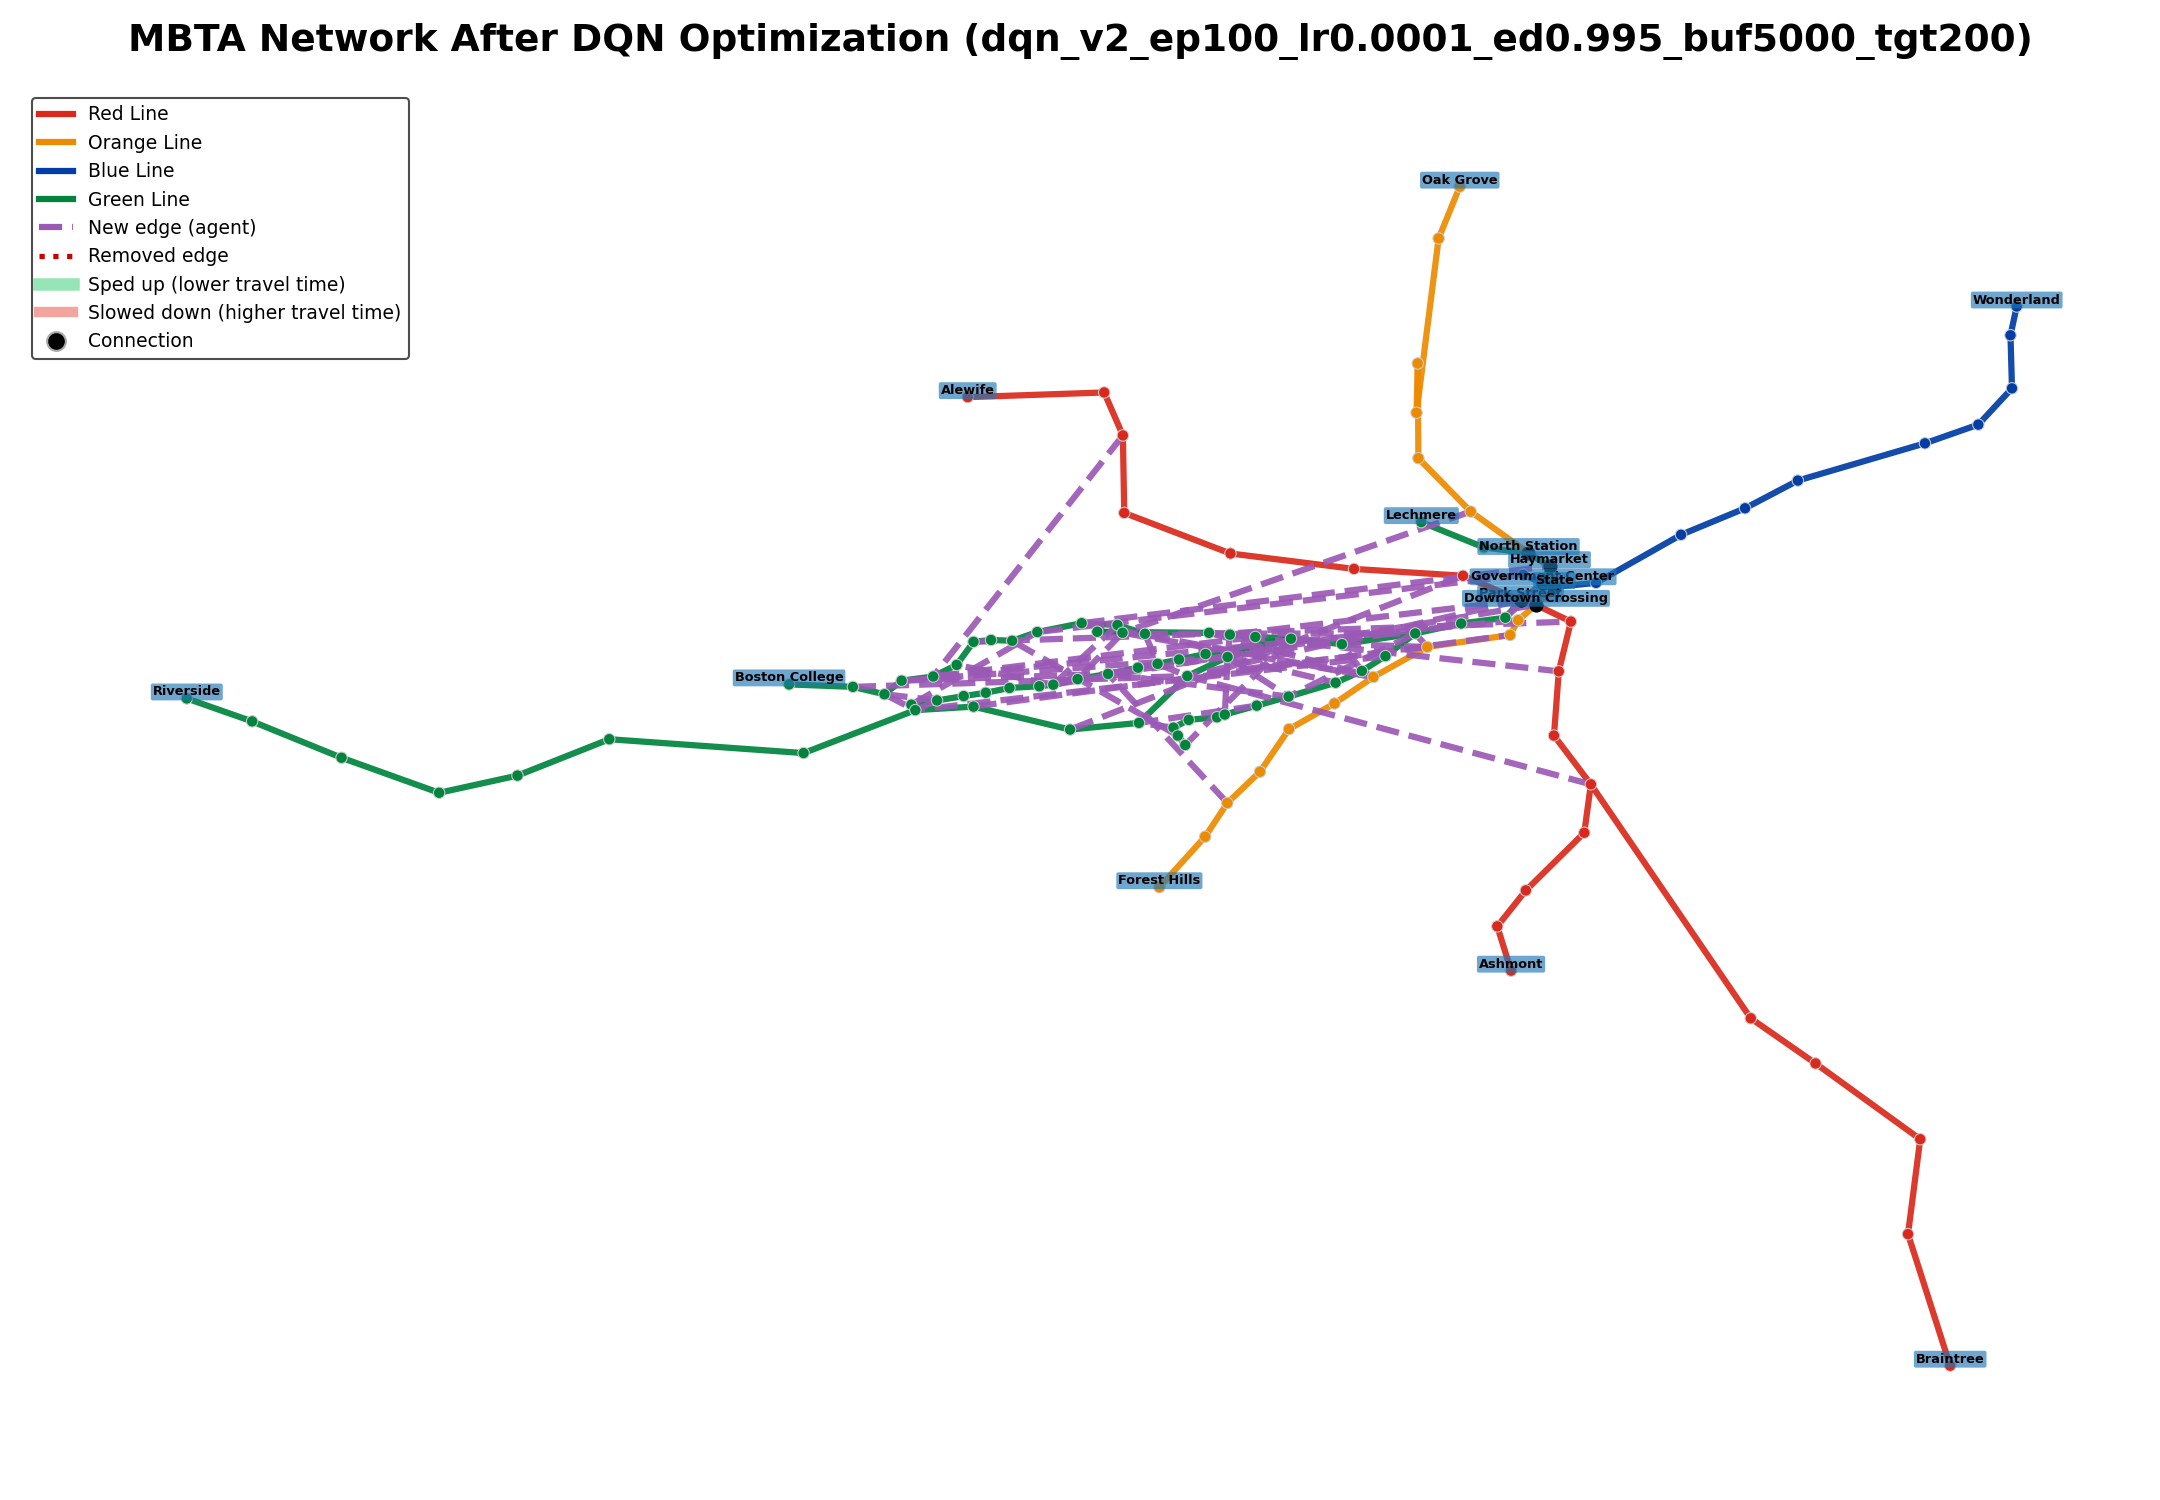
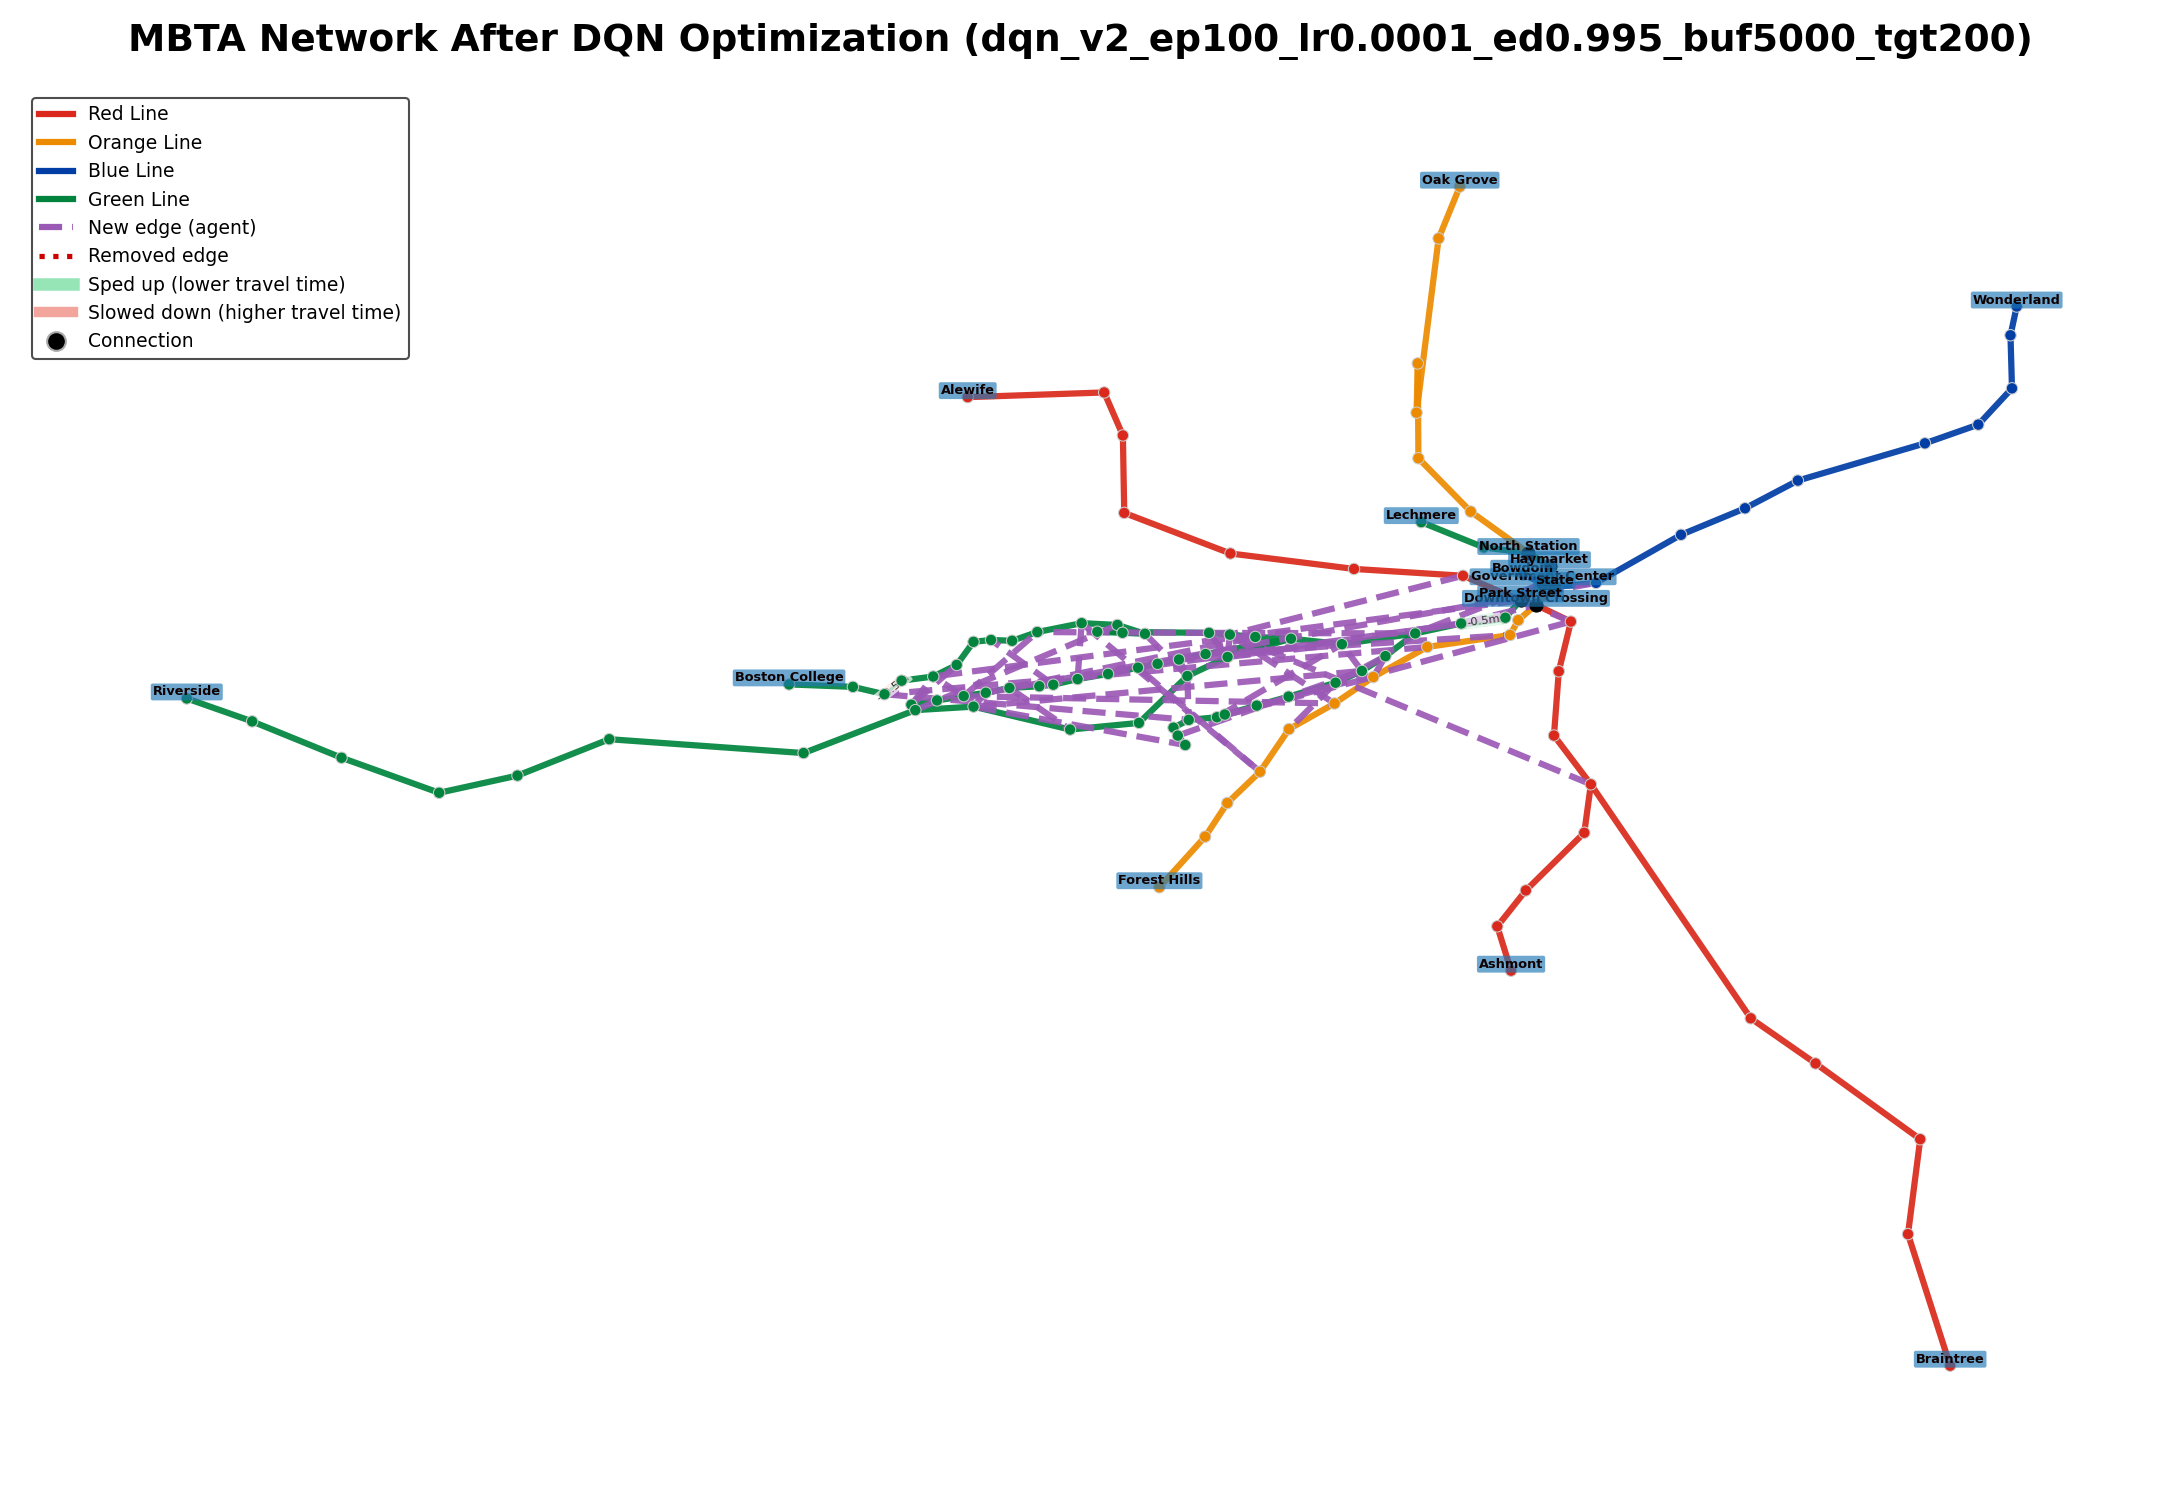
updated to using gymnasium render mode + trained dqn for 100 and 200 episodes

Changed region(s): [[0.4032, 0.368, 0.7444, 0.5213]]

diff --git a/env/mbta_env.py b/env/mbta_env.py
@@ -66,18 +66,19 @@ class MBTAEnv(gym.Env):
         base_graph: nx.Graph,
         max_steps: int = MAX_STEPS,
         disconnect_penalty: float = DISCONNECT_PENALTY,
-        render: bool = False,
+        render_mode: str | None = None,
         budget: float = 500.0,
     ):
         super().__init__()
 
+        self.render_mode = render_mode
         self._base_graph = base_graph
         self.nodes: list[str] = sorted(self._base_graph.nodes())
         self.N: int = len(self.nodes)
 
         self.max_steps = max_steps
         self.disconnect_penalty = disconnect_penalty
-        self._render_enabled = render
+        self._render_enabled = render_mode == "human"
 
         self._G = None
         self._prev_mean_tt = None
@@ -155,10 +156,10 @@ class MBTAEnv(gym.Env):
         """ only allow removing edges that exist and aren't bridges (whose removal would disconnect the graph)"""
         if not self._G.has_edge(u, v):
             return False
-        # use precomputed bridges from action_masks() if available, otherwise compute
         bridges = getattr(self, "_bridges", None)
-        if bridges is None:
+        if bridges is None or self._graph_changed:
             bridges = set(map(frozenset, nx.bridges(self._G)))
+            self._bridges = bridges
         return frozenset((u, v)) not in bridges
 
     def _is_valid_action(self, action_type: int, u: str, v: str) -> bool:
@@ -370,18 +371,16 @@ class MBTAEnv(gym.Env):
                 u_suburb   = u in self.SUBURBS
                 v_suburb   = v in self.SUBURBS
 
+                is_suburb_downtown = (u_suburb and v_downtown) or (u_downtown and v_suburb)
+
                 if self._current_period == "am_rush":
-                    if u_suburb and v_downtown:
+                    if is_suburb_downtown:
                         w = period["weight_downtown"]
-                    elif u_downtown and v_suburb:
-                        w = period["weight_suburb"]
                     else:
                         w = period["weight_other"]
                 elif self._current_period == "pm_rush":
-                    if u_downtown and v_suburb:
+                    if is_suburb_downtown:
                         w = period["weight_suburb"]
-                    elif u_suburb and v_downtown:
-                        w = period["weight_downtown"]
                     else:
                         w = period["weight_other"]
                 else:
@@ -481,7 +480,7 @@ if __name__ == "__main__":
     with open(os.path.join(_PROJECT_ROOT, "outputs", "mbta_graph.pkl"), "rb") as f:
         G = pickle.load(f)
 
-    env = MBTAEnv(G, max_steps=50, render=True)
+    env = MBTAEnv(G, max_steps=50, render_mode="human")
 
     print("Running gymnasium env_checker …")
     check_env(env, warn=True)

diff --git a/evaluation/evaluate_agents.py b/evaluation/evaluate_agents.py
@@ -35,7 +35,7 @@ from agents.dqn_agent import DQNAgent
 DQN_VERSION        = 2     # v1: budget=5000, add_cost=w*2, no remove refund
                            # v2: budget=1000, add_cost=w*5, remove refund=tt*2.5,
                            #     freq actions modify travel_time (±0.5min), speed_up cost=1.5, slow_down refund=0.75
-DQN_EPISODES       = 100
+DQN_EPISODES       = 200
 DQN_LR             = 0.0001
 DQN_EPSILON_DECAY  = 0.995
 DQN_BUFFER         = 5000
@@ -56,7 +56,7 @@ RENDER = True
 def evaluate_dqn(graph, render=False):
     """Evaluate implemented DQN agent for one episode."""
     # initialize env
-    env = MBTAEnv(graph, max_steps=MAX_STEPS, render=render, budget=5000.0)
+    env = MBTAEnv(graph, max_steps=MAX_STEPS, render_mode="human" if render else None, budget=5000.0)
 
     state_dim = env.observation_space.shape[0]
     action_dim = env.action_space.n

diff --git a/training/train_dqn.py b/training/train_dqn.py
@@ -25,7 +25,7 @@ from agents.dqn_agent import DQNAgent
 VERSION        = 2     # v1: budget=5000, add_cost=w*2, no remove refund
                        # v2: budget=1000, add_cost=w*5, remove refund=tt*2.5,
                        #     freq actions modify travel_time (±0.5min), speed_up cost=1.5, slow_down refund=0.75
-NUM_EPISODES   = 100
+NUM_EPISODES   = 200
 EPSILON_DECAY  = 0.995
 
 # DONT CHANGE
@@ -36,7 +36,7 @@ with open(os.path.join(PROJECT_ROOT, "outputs", "mbta_graph.pkl"), "rb") as f:
     G = pickle.load(f)
 
 # create environment
-env = MBTAEnv(G, max_steps=MAX_STEPS, render=False, budget=1000.0)
+env = MBTAEnv(G, max_steps=MAX_STEPS, render_mode=None, budget=1000.0)
 
 # get observation/action sizes
 state_dim = env.observation_space.shape[0]

diff --git a/training/train_ppo.py b/training/train_ppo.py
@@ -68,8 +68,8 @@ with open(os.path.join(PROJECT_ROOT, "outputs", "mbta_graph.pkl"), "rb") as f:
     G = pickle.load(f)
 
 # initialize environment
-# change render=True to watch it train
-env = MBTAEnv(G, max_steps=MAX_STEPS, render=False, budget=5000.0)
+# change render_mode="human" to watch it train
+env = MBTAEnv(G, max_steps=MAX_STEPS, render_mode=None, budget=5000.0)
 
 model = MaskablePPO("MlpPolicy", env, verbose=1)
 callback = TrainingCallback(print_freq=100)
